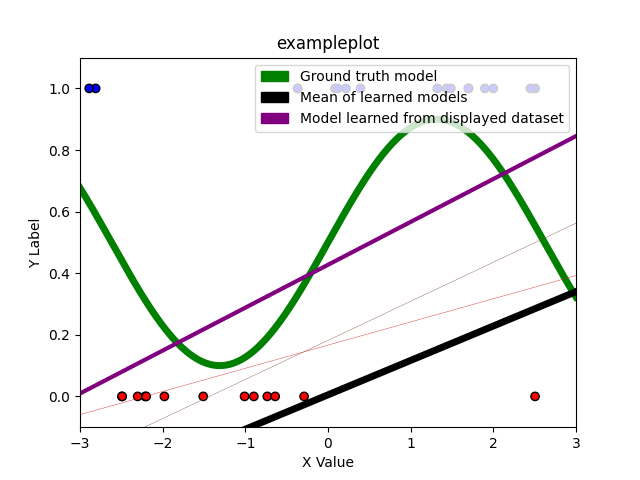
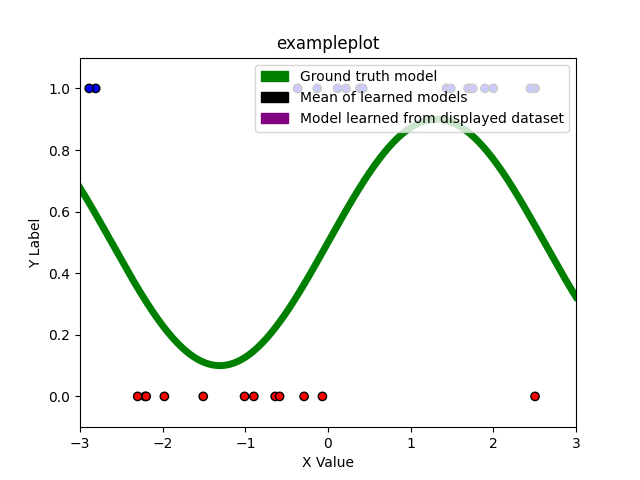
implement basis functions

diff --git a/HW2/T2_P1.py b/HW2/T2_P1.py
@@ -19,11 +19,11 @@ def basis1(x):
 
 # TODO: Implement this
 def basis2(x):
-    return None
+    return np.array([[1, x_i, x_i ** 2] for x_i in x])
 
 # TODO: Implement this
 def basis3(x):
-    return None
+    return np.array([[1, x_i, x_i ** 2, x_i ** 3, x_i ** 4, x_i **5] for x_i in x])
 
 class LogisticRegressor:
     def __init__(self, eta, runs):
@@ -136,10 +136,10 @@ if __name__ == "__main__":
     all_models = []
     for _ in range(4):
         x, y = generate_data(N)
-        x_transformed = basis1(x)
+        x_transformed = basis2(x)
         model = LogisticRegressor(eta=eta, runs=runs)
         model.fit(x_transformed, y)
         all_models.append(model)
 
     # Here x and y contain last dataset:
-    visualize_prediction_lines(x, y, all_models, basis1, "exampleplot")
+    visualize_prediction_lines(x, y, all_models, basis3, "exampleplot")
